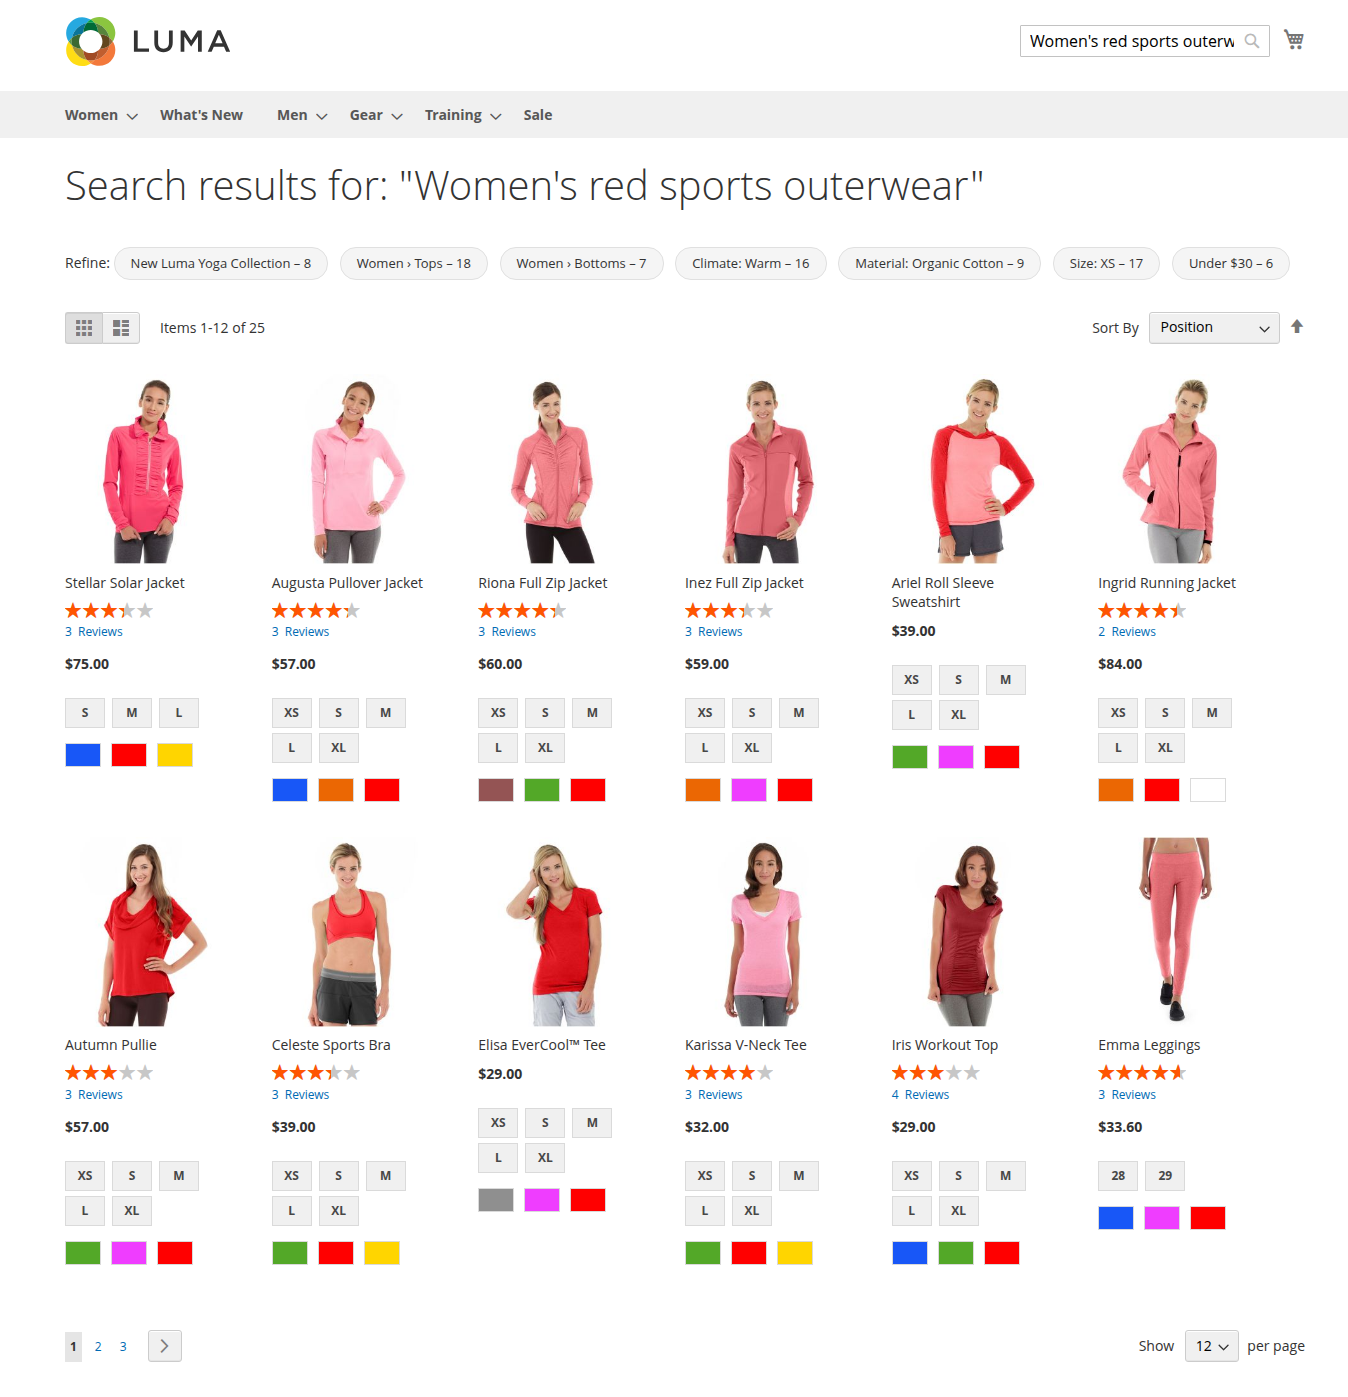
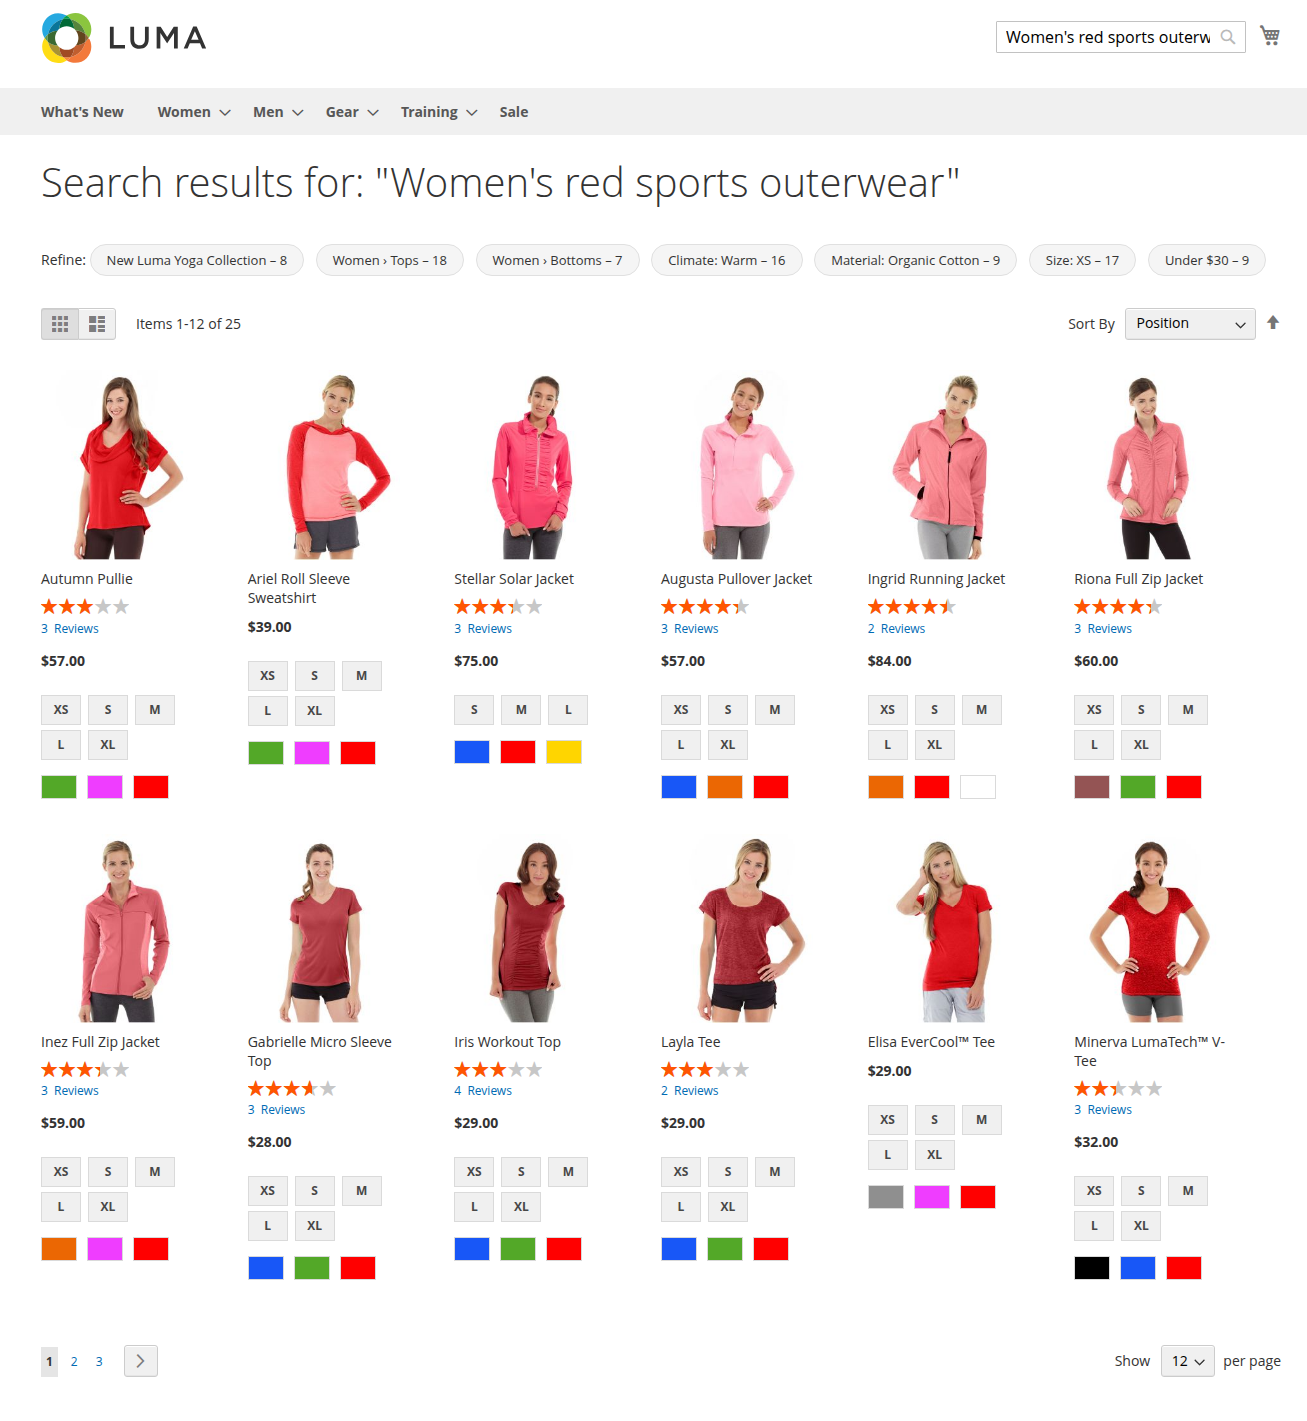
Show AI mode first in the README and update its screenshot

diff --git a/README.md b/README.md
@@ -1,11 +1,11 @@
-# Magento 2 AI Catalog Search — Natural Language Product Search with Automatic Filters
+# Magento 2 AI Catalog Search - Natural Language Product Search with Automatic Filters
 
 <a href="https://yu.net.ua/" target="_blank" rel="noopener noreferrer"><img alt="Live demo" src="https://img.shields.io/badge/demo-yu.net.ua-2ea44f?style=for-the-badge"></a>
 
 **🔗 Demo: <a href="https://yu.net.ua/" target="_blank" rel="noopener noreferrer">yu.net.ua</a>**
 
 Magento's native search matches literally on words: a customer who types
-"red jacket for men under $50" gets results for that exact phrase —
+"red jacket for men under $50" gets results for that exact phrase -
 Magento doesn't understand that "red" is a color, "for men" is a catalog
 section, and "$50" is a price ceiling, unless the customer opens the
 filters manually and sets them himself. `Yu_AiCatalogSearch` plugs AI
@@ -16,26 +16,19 @@ itself into the right filters.
 
 The customer just types a query as usual:
 
-> "red jacket for men under $50" → the AI figures out on its own: color —
-> red, category — men's, price — under $50, and applies it as ordinary
+> "red jacket for men under $50" → the AI figures out on its own: color -
+> red, category - men's, price - under $50, and applies it as ordinary
 > search filters.
 
-## Two modes — the merchant's choice
+## Two modes - the merchant's choice
 
-The module offers two ways to show the result — switched by a single
+The module offers two ways to show the result - switched by a single
 field in the admin panel:
 
-- **Native (default)** — the customer lands on Magento's regular search
-  results page, with the usual filter navigation on the left, just with
-  the right filters already applied. Fully native storefront look, zero
-  visual difference from the theme — the safest option to roll out.
-
-  ![Native mode — the regular search results page with filters already applied](docs/images/search-results-native.png)
-
-- **AI** — the customer lands on a dedicated page with refinement chips
-  above the results: categories first ("Men › Tops · 10"), then
-  attributes ("Material: Cotton · 7"), then a price ceiling ("Under $40
-  · 5"), built from the products actually shown rather than a static
+- **AI** - the customer lands on a dedicated page with refinement chips
+  above the results: categories first ("Men › Tops – 10"), then
+  attributes ("Material: Cotton – 7"), then a price ceiling ("Under $40
+  – 5"), built from the products actually shown rather than a static
   filter tree. Each chip is a value that really splits the current
   results - not one nearly all of them share, not one only a single
   product has. The number on a chip is exactly how many products a
@@ -44,29 +37,36 @@ field in the admin panel:
   search. Chips stack (each click narrows further) and every active
   chip has a × that removes just that one. The product grid itself
   stays fully native: colors, swatches, wishlist, compare, sorting,
-  pagination — all as usual.
+  pagination - all as usual.
 
-  ![AI mode — a dedicated page with AI suggestions above the results](docs/images/search-results-AI.png)
+  ![AI mode - a dedicated page with AI suggestions above the results](docs/images/search-results-AI.png)
+
+- **Native (default)** - the customer lands on Magento's regular search
+  results page, with the usual filter navigation on the left, just with
+  the right filters already applied. Fully native storefront look, zero
+  visual difference from the theme - the safest option to roll out.
+
+  ![Native mode - the regular search results page with filters already applied](docs/images/search-results-native.png)
 
 If the AI is unavailable for any reason, or fails to parse the query,
-search simply works as usual, unchanged — the customer won't even notice.
+search simply works as usual, unchanged - the customer won't even notice.
 
 ## Features
 
 - **Understands attributes, category and price** in a single query, in
   whatever language the customer uses.
-- **Semantic matching in AI mode** — when `Yu_AiSearchEngine`'s
+- **Semantic matching in AI mode** - when `Yu_AiSearchEngine`'s
   semantic search is enabled, product matching also considers meaning,
   not just literal words: a query like "warm winter jacket" can surface
   a product described only as "insulated parka". Off by default; see
   `Yu_AiSearchEngine`'s README for how to turn it on.
-- **Never breaks plain text search** — if the query carries no filters,
+- **Never breaks plain text search** - if the query carries no filters,
   nothing changes compared to regular search.
-- **Query-parse caching** — identical queries don't spend a repeat AI
+- **Query-parse caching** - identical queries don't spend a repeat AI
   call.
-- **Query log** — every parse is recorded (what the customer typed, what
+- **Query log** - every parse is recorded (what the customer typed, what
   the AI recognized, the cost of the call).
-- **Never touches catalog settings** — the module only reads which
+- **Never touches catalog settings** - the module only reads which
   attributes the merchant has configured as filterable, and never
   changes those settings itself.
 
@@ -88,7 +88,7 @@ bin/magento setup:di:compile
 bin/magento cache:flush
 ```
 
-The module is installed disabled — search behavior won't change until
+The module is installed disabled - search behavior won't change until
 you enable it in the admin panel and configure at least one LLM
 provider.
 
@@ -96,20 +96,20 @@ provider.
 
 **Stores → Configuration → Search Product AI → General**
 
-- **Enable AI Search** — the main switch.
-- **Results Mode** — Native or AI, see above.
-- **Minimum Query Length** — queries shorter than this aren't sent to
+- **Enable AI Search** - the main switch.
+- **Results Mode** - Native or AI, see above.
+- **Minimum Query Length** - queries shorter than this aren't sent to
   the AI (e.g. single letters or product codes).
-- **Parse Timeout** — how long to wait for the AI's answer before
+- **Parse Timeout** - how long to wait for the AI's answer before
   falling back to unmodified regular search.
-- **Parse Cache Lifetime** — how long to remember the parse of identical
+- **Parse Cache Lifetime** - how long to remember the parse of identical
   queries.
-- **Log Search Queries** — keep a query log.
+- **Log Search Queries** - keep a query log.
 
 For Native mode to work fully, the merchant's catalog needs Magento's
 own "Use in Search Results Layered Navigation" setting enabled for the
 relevant attributes and for price (Stores → Attributes → Product →
-the attribute in question) — without it the AI still understands the
+the attribute in question) - without it the AI still understands the
 query just fine, but can't apply the filter as a separate parameter, and
 instead just folds it into the keyword search. AI mode needs no such
 setting.
@@ -117,12 +117,12 @@ setting.
 A category the AI is expected to recognize in a query (e.g. "for men",
 "women's") must be marked as **Anchor** (Catalog → Categories → the
 category → Display Settings → Is Anchor). Without this flag the category
-doesn't participate in search — the AI simply can't apply it as a
+doesn't participate in search - the AI simply can't apply it as a
 filter, even when it correctly reads the customer's intent.
 
 The LLM provider (OpenAI, Anthropic Claude, Google Gemini, xAI Grok and
 others) is configured once, in **Stores → Configuration → AI → LLM
-AI** — this section is shared across all AI modules on the store,
+AI** - this section is shared across all AI modules on the store,
 including `Yu_AiChat`.
 
 ## Author
